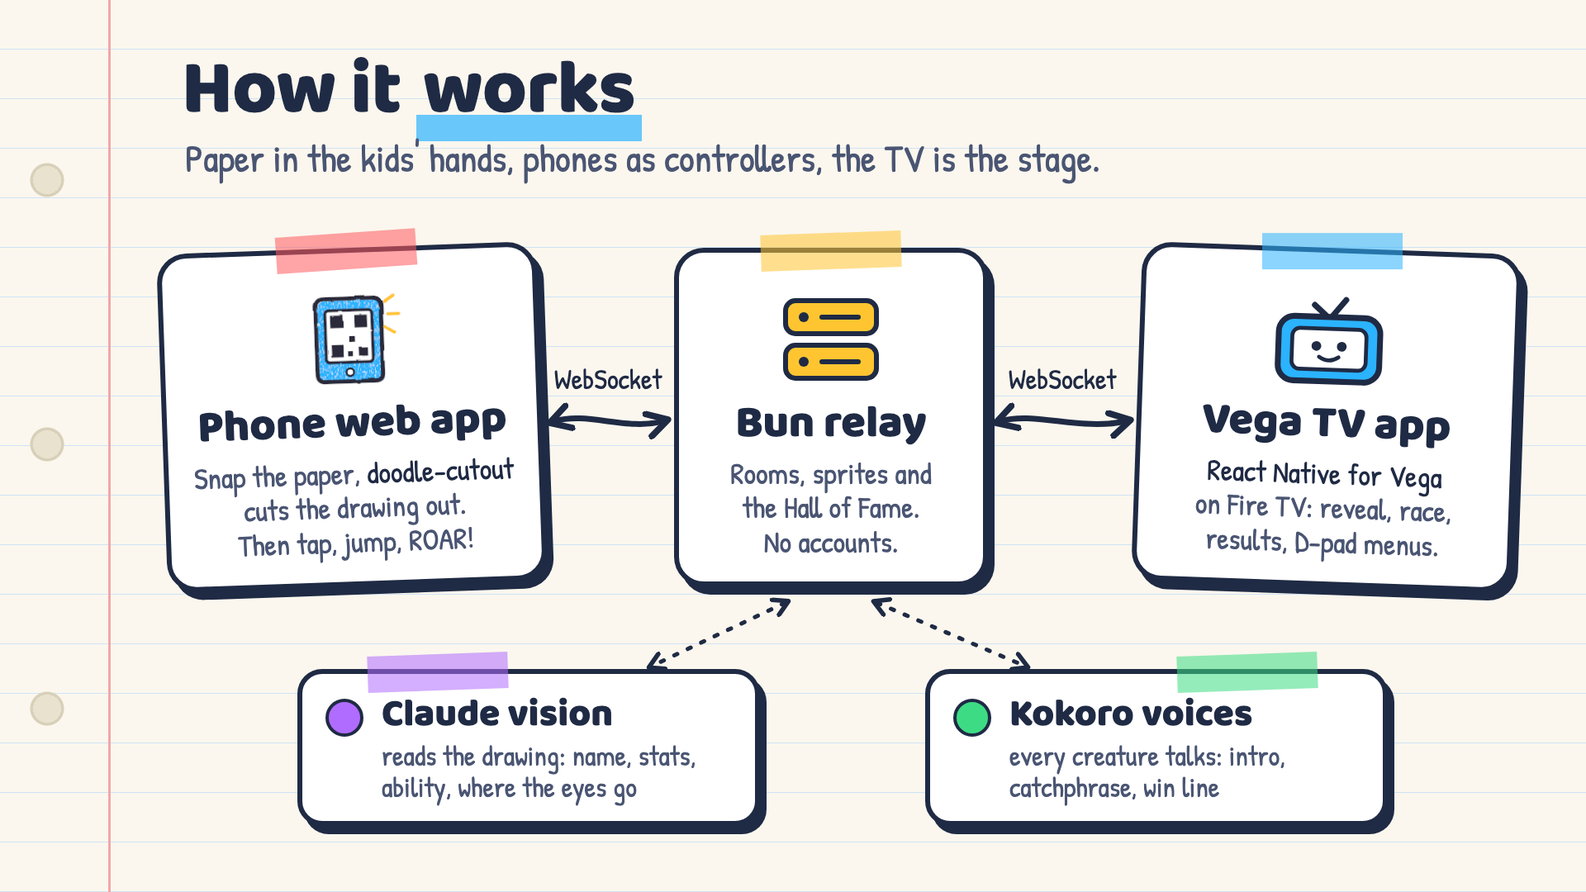
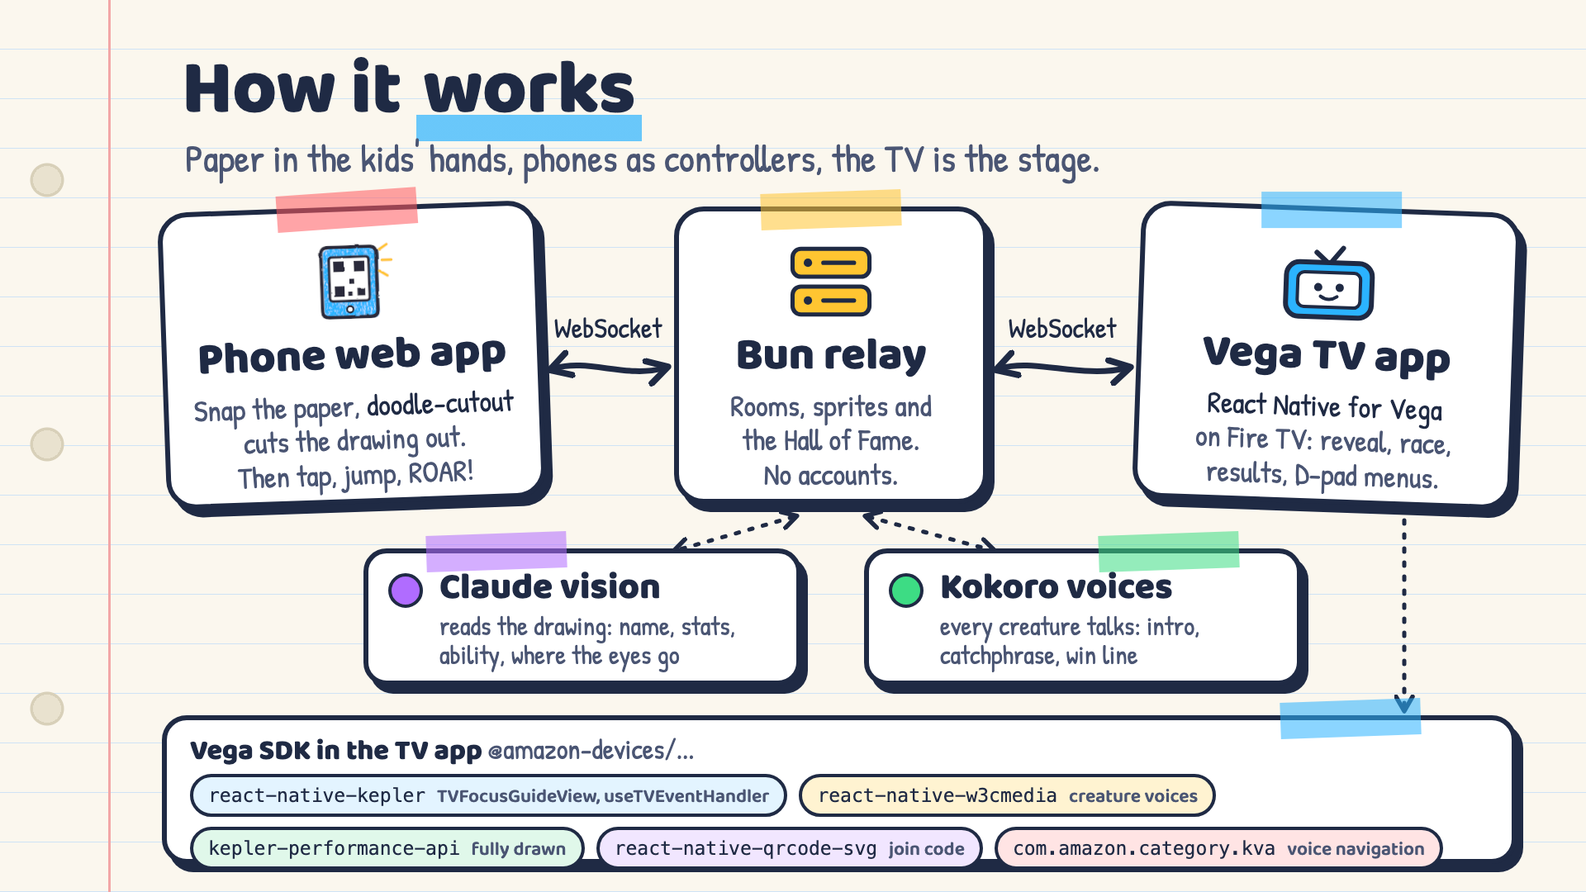
video: cards for the demo video (HTML + rendered PNG, shared notebook style)
Title, lower third, VVD badge, Hall of Fame caption, split-screen frame,
take clock, architecture (with Vega packages), doodle-cutout steps,
Claude persona JSON over its sprite, KPI (TBD where unmeasured),
race-start deadlock, impact, end card, synced-audio note, placeholder
slate. cards/render.sh renders them with headless Chrome.

Changed region(s): [[0.0938, 0.2139, 0.9688, 0.9778], [0.625, 0.3361, 0.7188, 0.5194]]

diff --git a/video/cards/claude.html b/video/cards/claude.html
@@ -1,57 +1,88 @@
 <!doctype html>
 <html lang="en"><head><meta charset="utf-8"><title>Claude persona card</title><link rel="stylesheet" href="style.css">
-<!-- Real persona from GET /api/hall-of-fame (id 0c84fa1d..., source "claude", claude-opus-5-5, 21 Oct 2026). Some fields omitted. -->
 <style>
-  .art { position: absolute; left: 200px; top: 280px; padding: 34px; border-radius: 40px; }
+  .art { position: absolute; left: 200px; top: 270px; padding: 34px; border-radius: 40px; }
   .art .tape { --t: var(--purple); }
-  .sp { position: relative; width: 600px; height: 547px; }
-  .sp img { width: 600px; height: 547px; display: block; }
-  .by { position: absolute; left: 650px; top: 316px; font-size: 40px; transform: rotate(-2deg); }
-  .json { position: absolute; left: 930px; top: 250px; width: 900px; padding: 30px 36px; border-radius: 32px; font-size: 29px; line-height: 43px; white-space: pre; }
+  .sp { position: relative; }
+  .sp img { width: 100%; height: 100%; display: block; }
+  .by { position: absolute; right: 30px; top: 22px; font-size: 40px; transform: rotate(-2deg); }
+  .json { position: absolute; left: 930px; top: 236px; width: 900px; padding: 26px 36px; border-radius: 32px; font-size: 27px; line-height: 37px; white-space: pre; }
   .json .tape { --t: var(--blue); left: 75%; }
   .k { color: #7a3fd0; } .s { color: #c2363b; } .n { color: #1a7fc0; font-weight: 700; } .p { color: #8a93ab; }
   .hl { background: color-mix(in srgb, var(--yellow) 45%, transparent); border-radius: 8px; margin: 0 -8px; padding: 0 8px; }
-  .facts { position: absolute; left: 236px; bottom: 58px; display: flex; gap: 22px; font-size: 40px; }
+  .facts { position: absolute; left: 236px; bottom: 34px; display: flex; gap: 22px; font-size: 40px; }
   svg.link { position: absolute; inset: 0; }
 </style></head>
 <body class="paper">
   <div class="page">
     <h1>Claude <span class="u" style="--u: var(--purple)">reads the drawing</span></h1>
-    <div class="kicker">One look at the paper: a name, stats, an ability, a voice line and where the eyes go.</div>
+    <div class="kicker">Claude vision decides how your drawing plays.</div>
   </div>
-
-  <div class="art sticker tilt-l"><span class="tape"></span>
-    <div class="sp"><img src="img/captain-bleep.png" alt="">
-      <!-- eyes like the TV app (Sprite.tsx): centre x*600, y*547, radius r*600*1.18 -->
-      <span class="eye" style="left: 222px; top: 224px; width: 92px; height: 92px"></span>
-      <span class="eye" style="left: 339px; top: 224px; width: 92px; height: 92px"></span>
-    </div>
-  </div>
-  <div class="by hand">Drawn by Leo</div>
-
-  <div class="json sticker mono"><span class="tape"></span><span class="p">{</span>
-  <span class="k">"name"</span><span class="p">:</span> <span class="s">"Captain Bleep"</span><span class="p">,</span>
-  <span class="k">"title"</span><span class="p">:</span> <span class="s">"the Antenna Buddy"</span><span class="p">,</span>
-  <span class="k">"stats"</span><span class="p">: {</span><span class="k">"speed"</span><span class="p">:</span> <span class="n">3</span><span class="p">,</span> <span class="k">"jump"</span><span class="p">:</span> <span class="n">2</span><span class="p">,</span> <span class="k">"power"</span><span class="p">:</span> <span class="n">4</span><span class="p">},</span>
-  <span class="k">"ability"</span><span class="p">: {</span>
-    <span class="k">"feature"</span><span class="p">:</span> <span class="s">"big round tummy"</span><span class="p">,</span>
-    <span class="k">"label"</span><span class="p">:</span> <span class="s">"ROAR knocks back ink blots!"</span>
-  <span class="p">},</span>
-  <span class="k">"catchphrase"</span><span class="p">:</span> <span class="s">"Beep boop, let's go!"</span><span class="p">,</span>
-  <span class="hl"><span class="k">"eyes"</span><span class="p">: [</span></span>
-    <span class="hl"><span class="p">{</span><span class="k">"x"</span><span class="p">:</span> <span class="n">0.37</span><span class="p">,</span>  <span class="k">"y"</span><span class="p">:</span> <span class="n">0.41</span><span class="p">,</span> <span class="k">"r"</span><span class="p">:</span> <span class="n">0.065</span><span class="p">},</span></span>
-    <span class="hl"><span class="p">{</span><span class="k">"x"</span><span class="p">:</span> <span class="n">0.565</span><span class="p">,</span> <span class="k">"y"</span><span class="p">:</span> <span class="n">0.41</span><span class="p">,</span> <span class="k">"r"</span><span class="p">:</span> <span class="n">0.065</span><span class="p">}</span></span>
-  <span class="p">],  …</span>
-<span class="p">}</span></div>
-
-  <svg class="link" width="1920" height="1080" aria-hidden="true">
-    <path d="M922 726 C 820 740, 700 640, 632 556" fill="none" stroke="#1F2A44" stroke-width="5" stroke-dasharray="4 13" stroke-linecap="round"/>
-    <circle cx="632" cy="556" r="9" fill="#1F2A44"/>
-  </svg>
-
+  <div class="art sticker tilt-l"><span class="tape"></span><div class="sp" id="sp"><img id="img" alt=""></div><div class="by hand" id="by"></div></div>
+  <div class="json sticker mono" id="json"><span class="tape"></span></div>
+  <svg class="link" id="link" width="1920" height="1080" aria-hidden="true"></svg>
   <div class="facts">
-    <span class="pill fill" style="--f: var(--purple); color: #fff">claude-opus-5-5 · vision</span>
-    <span class="pill fill" style="--f: var(--yellow)">median ~4.3 s</span>
-    <span class="pill fill" style="--f: var(--green)">~$0.015 per creature</span>
+    <span class="pill fill" style="--f: var(--purple); color: #fff">claude-opus-5-5 vision</span>
+    <span class="pill fill" style="--f: var(--yellow)">median 4.3 s</span>
+    <span class="pill fill" style="--f: var(--green)">offline fallback, no key needed</span>
   </div>
+  <script>
+    // A real persona from GET http://localhost:8787/api/hall-of-fame (source "claude", 21 Oct 2026). To swap in a
+    // better one (e.g. a flyer with "big wings"): paste its JSON here, copy server/data/sprites/<id>.png to img/,
+    // set SPRITE, then cards/render.sh claude. Only the fields in SHOW are printed; "…" marks the rest.
+    const SPRITE = 'img/captain-bleep.png';
+    const P = {
+      "id": "0c84fa1d-36f4-44a4-a2b2-e3cbc8d4f54d", "name": "Captain Bleep", "title": "the Antenna Buddy",
+      "catchphrase": "Beep boop, let's go!", "stats": {"speed": 3, "jump": 2, "power": 4}, "move": "walk",
+      "ability": {"kind": "walk", "feature": "big round tummy", "label": "ROAR knocks back ink blots!"},
+      "eyes": [{"x": 0.37, "y": 0.41, "r": 0.065}, {"x": 0.565, "y": 0.41, "r": 0.065}],
+      "source": "claude", "width": 601, "height": 548, "artist": "Leo"
+    };
+    const SHOW = ['name', 'title', 'move', 'ability', 'stats', 'eyes'];
+
+    // Sprite fitted to 600x560, googly eyes sized like the TV app (tv/src/components/Sprite.tsx: r * width * 1.18).
+    const s = Math.min(600 / P.width, 560 / P.height), w = Math.round(P.width * s), h = Math.round(P.height * s);
+    const sp = document.getElementById('sp');
+    sp.style.width = w + 'px'; sp.style.height = h + 'px';
+    document.getElementById('img').src = SPRITE;
+    document.getElementById('by').textContent = P.artist ? 'Drawn by ' + P.artist : '';
+    for (const e of P.eyes) {
+      const d = 2 * e.r * w * 1.18, el = document.createElement('span');
+      el.className = 'eye';
+      Object.assign(el.style, {left: e.x * w + 'px', top: e.y * h + 'px', width: d + 'px', height: d + 'px', borderWidth: Math.max(3, d * 0.06) + 'px'});
+      sp.appendChild(el);
+    }
+
+    // Pretty JSON with colours; small objects on one line, the eyes highlighted.
+    const esc = t => t.replace(/&/g, '&amp;').replace(/</g, '&lt;');
+    const tok = v => typeof v === 'string' ? `<span class="s">${esc(JSON.stringify(v))}</span>` : `<span class="n">${v}</span>`;
+    const p = t => `<span class="p">${t}</span>`;
+    const inline = o => p('{') + Object.entries(o).map(([k, v]) => `<span class="k">"${k}"</span>${p(':')} ${tok(v)}`).join(p(', ')) + p('}');
+    const lines = [p('{')];
+    SHOW.forEach(k => {
+      const v = P[k], key = `  <span class="k">"${k}"</span>${p(':')} `;
+      if (Array.isArray(v)) {
+        lines.push(`<span class="hl">${key}${p('[')}</span>`);
+        v.forEach((o, i) => lines.push(`    <span class="hl">${inline(o)}${i < v.length - 1 ? p(',') : ''}</span>`));
+        lines.push('  ' + p('],'));
+      } else if (v && typeof v === 'object' && JSON.stringify(v).length > 44) {
+        lines.push(key + p('{'));
+        const es = Object.entries(v);
+        es.forEach(([kk, vv], i) => lines.push(`    <span class="k">"${kk}"</span>${p(':')} ${tok(vv)}${i < es.length - 1 ? p(',') : ''}`));
+        lines.push('  ' + p('},'));
+      } else lines.push(key + (typeof v === 'object' ? inline(v) : tok(v)) + p(','));
+    });
+    lines.push('  ' + p('…'), p('}'));
+    document.getElementById('json').insertAdjacentHTML('beforeend', lines.join('\n'));
+
+    // Dotted link from the highlighted "eyes" line to the last googly eye.
+    requestAnimationFrame(() => {
+      const e = [...document.querySelectorAll('.eye')].pop();
+      if (!e) return;
+      const a = [...document.querySelectorAll('.hl')].pop().getBoundingClientRect(), b = e.getBoundingClientRect();
+      const x1 = a.left - 12, y1 = a.top + a.height / 2, x2 = b.right + 4, y2 = b.top + b.height / 2;
+      document.getElementById('link').innerHTML = `<path d="M${x1} ${y1} C ${x1 - 120} ${y1}, ${x2 + 90} ${y2 + 60}, ${x2} ${y2}" fill="none"
+        stroke="#1F2A44" stroke-width="5" stroke-dasharray="4 13" stroke-linecap="round"/><circle cx="${x2}" cy="${y2}" r="9" fill="#1F2A44"/>`;
+    });
+  </script>
 </body></html>

diff --git a/video/cards/architecture.html b/video/cards/architecture.html
@@ -1,16 +1,24 @@
 <!doctype html>
 <html lang="en"><head><meta charset="utf-8"><title>Architecture card</title><link rel="stylesheet" href="style.css">
+<!-- Package names from tv/package.json and tv/manifest.toml (categories). -->
 <style>
-  .box { position: absolute; top: 300px; height: 410px; padding: 40px 22px 0; text-align: center; }
-  .box .icon { height: 130px; display: block; margin: 0 auto 10px; }
+  .box { position: absolute; top: 250px; height: 360px; padding: 30px 22px 0; text-align: center; }
+  .box .icon { height: 110px; display: block; margin: 0 auto 8px; }
   .box h2 { margin: 0; font-size: 54px; line-height: 1; font-weight: 800; white-space: nowrap; }
   .box .sub { margin-top: 12px; font-size: 36px; line-height: 1.15; color: var(--ink-soft); }
   .box .sub b { color: var(--ink); font-weight: 400; }
-  .sat { position: absolute; top: 810px; height: 190px; padding: 26px 30px 0 28px; display: flex; gap: 22px; align-items: flex-start; border-radius: 30px; }
-  .sat h3 { margin: 0; font-size: 46px; line-height: 1; font-weight: 800; }
-  .sat .sub { margin-top: 8px; font-size: 34px; line-height: 1.12; color: var(--ink-soft); }
-  .wire { position: absolute; font-size: 36px; text-align: center; color: var(--ink); }
+  .sat { position: absolute; top: 664px; height: 166px; padding: 20px 26px 0 24px; display: flex; gap: 20px; align-items: flex-start; border-radius: 28px; }
+  .sat h3 { margin: 0; font-size: 44px; line-height: 1; font-weight: 800; }
+  .sat .sub { margin-top: 6px; font-size: 32px; line-height: 1.1; color: var(--ink-soft); }
+  .wire { position: absolute; font-size: 34px; text-align: center; color: var(--ink); }
   svg.lines { position: absolute; inset: 0; }
+  .pkgs { position: absolute; left: 196px; top: 866px; width: 1640px; height: 180px; padding: 18px 28px 0; border-radius: 30px; }
+  .pkgs .tape { --t: var(--blue); left: 88%; }
+  .pkgs h3 { margin: 0 0 10px; font-size: 34px; line-height: 1; font-weight: 800; }
+  .pkgs h3 span { font-family: 'Patrick Hand'; font-weight: 400; color: var(--ink-soft); }
+  .chips { display: flex; flex-wrap: wrap; gap: 12px 14px; }
+  .chip { border: 4px solid var(--ink); border-radius: 99px; padding: 2px 18px 0; font-size: 23px; line-height: 40px; background: var(--c, #fff); white-space: nowrap; }
+  .chip i { font-style: normal; font-family: 'Baloo 2'; font-weight: 600; color: var(--ink-soft); }
 </style></head>
 <body class="paper">
   <div class="page">
@@ -22,16 +30,17 @@
     <defs><marker id="h" viewBox="0 0 10 10" refX="6" refY="5" markerWidth="5" markerHeight="5" orient="auto-start-reverse">
       <path d="M1 1 L8 5 L1 9" fill="none" stroke="#1F2A44" stroke-width="2.2" stroke-linecap="round" stroke-linejoin="round"/></marker></defs>
     <g fill="none" stroke="#1F2A44" stroke-width="7" stroke-linecap="round">
-      <path d="M672 510 C 710 498, 760 522, 802 510" marker-start="url(#h)" marker-end="url(#h)"/>
-      <path d="M1212 510 C 1250 498, 1310 522, 1362 510" marker-start="url(#h)" marker-end="url(#h)"/>
+      <path d="M672 446 C 710 434, 760 458, 802 446" marker-start="url(#h)" marker-end="url(#h)"/>
+      <path d="M1212 446 C 1250 434, 1310 458, 1362 446" marker-start="url(#h)" marker-end="url(#h)"/>
     </g>
-    <g fill="none" stroke="#1F2A44" stroke-width="5" stroke-dasharray="4 14" stroke-linecap="round">
-      <path d="M950 730 L 790 806" marker-start="url(#h)" marker-end="url(#h)"/>
-      <path d="M1062 730 L 1240 806" marker-start="url(#h)" marker-end="url(#h)"/>
+    <g fill="none" stroke="#1F2A44" stroke-width="5" stroke-dasharray="4 13" stroke-linecap="round">
+      <path d="M960 626 L 820 666" marker-start="url(#h)" marker-end="url(#h)"/>
+      <path d="M1052 626 L 1200 666" marker-start="url(#h)" marker-end="url(#h)"/>
+      <path d="M1700 630 L 1700 856" marker-end="url(#h)"/>
     </g>
   </svg>
-  <div class="wire hand" style="left: 656px; top: 436px; width: 160px; font-size: 34px">WebSocket</div>
-  <div class="wire hand" style="left: 1196px; top: 436px; width: 180px; font-size: 34px">WebSocket</div>
+  <div class="wire hand" style="left: 656px; top: 374px; width: 160px">WebSocket</div>
+  <div class="wire hand" style="left: 1196px; top: 374px; width: 180px">WebSocket</div>
 
   <div class="box sticker tilt-l" style="left: 196px; width: 460px"><span class="tape" style="--t: var(--red)"></span>
     <img class="icon" src="img/icon_phone.svg" alt="">
@@ -39,7 +48,7 @@
     <div class="sub hand">Snap the paper, <b>doodle-cutout</b><br>cuts the drawing out.<br>Then tap, jump, ROAR!</div>
   </div>
   <div class="box sticker" style="left: 816px; width: 380px"><span class="tape" style="--t: var(--yellow)"></span>
-    <svg class="icon" width="150" height="130" viewBox="0 0 150 130" aria-hidden="true">
+    <svg class="icon" width="150" height="110" viewBox="0 0 150 130" aria-hidden="true">
       <rect x="20" y="18" width="110" height="40" rx="12" fill="#ffc531" stroke="#1F2A44" stroke-width="6"/>
       <rect x="20" y="72" width="110" height="40" rx="12" fill="#ffc531" stroke="#1F2A44" stroke-width="6"/>
       <circle cx="42" cy="38" r="6" fill="#1F2A44"/><circle cx="42" cy="92" r="6" fill="#1F2A44"/>
@@ -48,7 +57,7 @@
     <div class="sub hand">Rooms, sprites and<br>the Hall of Fame.<br>No accounts.</div>
   </div>
   <div class="box sticker tilt-r" style="left: 1376px; width: 460px"><span class="tape" style="--t: var(--blue)"></span>
-    <svg class="icon" width="150" height="130" viewBox="0 0 120 110" aria-hidden="true">
+    <svg class="icon" width="130" height="110" viewBox="0 0 120 110" aria-hidden="true">
       <path d="M44 20 L60 34 L76 14" fill="none" stroke="#1F2A44" stroke-width="6" stroke-linecap="round" stroke-linejoin="round"/>
       <rect x="8" y="32" width="104" height="66" rx="16" fill="#2bb3ff" stroke="#1F2A44" stroke-width="6"/>
       <rect x="22" y="44" width="76" height="42" rx="8" fill="#fff" stroke="#1F2A44" stroke-width="4"/>
@@ -58,12 +67,23 @@
     <div class="sub hand"><b>React Native for Vega</b><br>on Fire TV: reveal, race,<br>results, D-pad menus.</div>
   </div>
 
-  <div class="sat sticker" style="left: 360px; width: 560px"><span class="tape" style="--t: var(--purple); left: 30%"></span>
-    <div class="dot" style="--d: var(--purple); width: 46px; height: 46px; margin-top: 4px"></div>
+  <div class="sat sticker" style="left: 440px; width: 530px"><span class="tape" style="--t: var(--purple); left: 30%"></span>
+    <div class="dot" style="--d: var(--purple); width: 42px; height: 42px; margin-top: 4px"></div>
     <div><h3>Claude vision</h3><div class="sub hand">reads the drawing: name, stats,<br>ability, where the eyes go</div></div>
   </div>
-  <div class="sat sticker" style="left: 1120px; width: 560px"><span class="tape" style="--t: var(--green); left: 70%"></span>
-    <div class="dot" style="--d: var(--green); width: 46px; height: 46px; margin-top: 4px"></div>
+  <div class="sat sticker" style="left: 1046px; width: 530px"><span class="tape" style="--t: var(--green); left: 70%"></span>
+    <div class="dot" style="--d: var(--green); width: 42px; height: 42px; margin-top: 4px"></div>
     <div><h3>Kokoro voices</h3><div class="sub hand">every creature talks: intro,<br>catchphrase, win line</div></div>
+  </div>
+
+  <div class="pkgs sticker"><span class="tape"></span>
+    <h3>Vega SDK in the TV app <span>@amazon-devices/...</span></h3>
+    <div class="chips mono">
+      <span class="chip" style="--c: #E3F4FF">react-native-kepler <i>TVFocusGuideView, useTVEventHandler</i></span>
+      <span class="chip" style="--c: #FFF3D1">react-native-w3cmedia <i>creature voices</i></span>
+      <span class="chip" style="--c: #E0F8EA">kepler-performance-api <i>fully drawn</i></span>
+      <span class="chip" style="--c: #F1E6FF">react-native-qrcode-svg <i>join code</i></span>
+      <span class="chip" style="--c: #FFE4E4">com.amazon.category.kva <i>voice navigation</i></span>
+    </div>
   </div>
 </body></html>

diff --git a/video/cards/deadlock.html b/video/cards/deadlock.html
@@ -1,0 +1,58 @@
+<!doctype html>
+<html lang="en"><head><meta charset="utf-8"><title>Deadlock card</title><link rel="stylesheet" href="style.css">
+<!-- Source: notes/tv.md F4 (root cause from the ACR core dump's thread stacks, tv/scripts/acr-stacks.py) and the soak record. -->
+<style>
+  .threads { position: absolute; left: 210px; top: 262px; width: 1010px; display: flex; flex-direction: column; gap: 28px; }
+  .th { padding: 16px 28px 16px; border-radius: 28px; }
+  .th h3 { margin: 0 0 6px; font-size: 40px; line-height: 1.05; font-weight: 800; }
+  .th h3 span { font-family: 'Patrick Hand'; font-weight: 400; color: var(--ink-soft); }
+  .stk { font-size: 24px; line-height: 34px; white-space: pre; color: var(--ink); }
+  .stk em { font-style: normal; color: #8a93ab; }
+  .stk b { background: color-mix(in srgb, var(--c) 40%, transparent); border-radius: 6px; padding: 0 6px; font-weight: 700; }
+  .abba { position: absolute; left: 1060px; top: 438px; transform: rotate(4deg); font-size: 34px; padding: 4px 22px 0; background: var(--red); color: #fff; }
+  .acr { position: absolute; left: 1290px; top: 268px; width: 540px; padding: 18px 26px; border-radius: 28px; background: var(--ink); color: #e9eefb;
+    font-size: 22px; line-height: 32px; white-space: pre; box-shadow: 8px 10px 0 color-mix(in srgb, var(--ink) 35%, transparent); }
+  .acr .h { font-family: 'Baloo 2'; font-weight: 800; font-size: 34px; color: var(--yellow); }
+  .fix { position: absolute; left: 1290px; top: 560px; width: 540px; padding: 18px 28px 16px; border-radius: 28px; }
+  .fix .tape { --t: var(--green); }
+  .fix h3 { margin: 0 0 6px; font-size: 40px; line-height: 1; font-weight: 800; }
+  .fix li { font-size: 34px; line-height: 1.2; }
+  .fix ul { margin: 0; padding-left: 30px; }
+  .stat { position: absolute; left: 210px; top: 950px; width: 1620px; height: 100px; padding: 0 34px; display: flex; align-items: center; gap: 24px; font-size: 52px; font-weight: 800; line-height: 1; border-radius: 30px; white-space: nowrap; }
+  .stat b { color: var(--green); text-shadow: 3px 4px 0 var(--ink); font-size: 70px; }
+  .stat span { font-family: 'Patrick Hand'; font-size: 38px; font-weight: 400; color: var(--ink-soft); margin-left: auto; }
+</style></head>
+<body class="paper">
+  <div class="page">
+    <h1>The race-start <span class="u" style="--u: var(--red)">freeze</span></h1>
+    <div class="kicker">Read every thread's stack from the crash dump: a deadlock inside Vega's JS-thread watchdog.</div>
+  </div>
+
+  <div class="threads mono">
+    <div class="th sticker" style="--c: var(--red)"><span class="tape" style="--t: var(--red); left: 82%"></span>
+      <h3>JS thread <span>blocked in a blocking send()</span></h3>
+      <div class="stk"><b>send()</b>                  <em>socket buffer full, waits</em>
+aceAsync_deferredRemove  <b>holds the deferred-work mutex</b>
+ThreadMonitor::stopTimer <em>&lt;- sendHeartbeat &lt;- JS task</em></div></div>
+    <div class="th sticker" style="--c: var(--blue)"><span class="tape" style="--t: var(--blue); left: 58%"></span>
+      <h3>Watchdog loop thread <span>the only one that drains it</span></h3>
+      <div class="stk"><b>pthread_mutex_lock</b>      <em>waits for that same mutex</em>
+aceAsync_deferredPoll    <em>&lt;- aceAsyncLoop_run</em></div></div>
+    <div class="th sticker" style="--c: var(--yellow)"><span class="tape" style="--t: var(--yellow); left: 82%"></span>
+      <h3>Main thread <span>Back pressed, app gets killed</span></h3>
+      <div class="stk"><b>pthread_mutex_lock</b>      <em>&lt;- appMovedToBackground</em></div></div>
+  </div>
+  <div class="abba pill">ABBA deadlock</div>
+
+  <div class="acr mono"><span class="h">ACR</span>
+CrashReason: AppNotResponding
+LCM_ANR_REASON: Lifecycle Callback
+"No JavaScript code is
+ currently being executed"</div>
+
+  <div class="fix sticker"><span class="tape"></span>
+    <h3>The fix: starve it</h3>
+    <ul class="hand"><li>One JS task per frame</li><li>Animated values native from birth</li><li>A silent race start</li></ul>
+  </div>
+  <div class="stat sticker"><div><b>42</b> race starts, <b>0</b> freezes since the fix</div><span>soak test on the Vega Virtual Device</span></div>
+</body></html>

diff --git a/video/cards/note-synced.html b/video/cards/note-synced.html
@@ -1,0 +1,11 @@
+<!doctype html>
+<html lang="en"><head><meta charset="utf-8"><title>Synced audio note (transparent)</title><link rel="stylesheet" href="style.css">
+<!-- Shown by build.mjs while a cue with "note": true plays: audio laid in during the edit, not recorded with the picture. -->
+<style>
+  .pill { position: absolute; left: 24px; bottom: 16px; font-size: 28px; padding: 2px 20px 0 14px; border-width: 4px; gap: 10px; background: #fffdf6; }
+</style></head>
+<body>
+  <div class="pill"><svg width="30" height="34" viewBox="0 0 30 34" aria-hidden="true"><path d="M11 26 V5 L27 2 V22" fill="none" stroke="#1F2A44" stroke-width="4" stroke-linejoin="round"/>
+    <ellipse cx="7" cy="27" rx="6" ry="5" fill="#b06cff" stroke="#1F2A44" stroke-width="3"/><ellipse cx="23" cy="23" rx="6" ry="5" fill="#b06cff" stroke="#1F2A44" stroke-width="3"/></svg>
+    The app's own voice clip, synced in the edit (VVD filmed muted)</div>
+</body></html>

diff --git a/video/cards/impact.html b/video/cards/impact.html
@@ -24,7 +24,7 @@
     <div class="tile sticker"><span class="tape" style="--t: var(--blue)"></span><img src="img/crown.svg" alt="">
       <h2>The youngest can win</h2><p class="hand">Age boosts, abilities from the drawing.<br>Playtest: <b>youngest won TBD of TBD races</b></p></div>
     <div class="tile sticker"><span class="tape" style="--t: var(--purple)"></span><img src="img/icon_trophy.svg" alt="">
-      <h2>Fire TV Appstore</h2><p class="hand">Next: Kids &amp; Family, from StarFun Games.<br>The Hall of Fame keeps every racer.</p></div>
+      <h2>Fire TV Appstore</h2><p class="hand">Next: Kids &amp; Family, from StarFun Games.<br>Price model: <b>TBD</b></p></div>
     <div class="tile sticker"><span class="tape" style="--t: var(--green)"></span><div class="ico big">1.5¢</div>
       <h2>~1.5 cents a creature</h2><p class="hand">One Claude call per drawing (~$0.015).<br>Voices are made on our own server.</p></div>
   </div>

diff --git a/video/cards/kpi.html b/video/cards/kpi.html
@@ -19,8 +19,9 @@
 <body class="paper">
   <div class="page">
     <h1>TV-grade <span class="u" style="--u: var(--green)">on Vega</span></h1>
-    <div class="kicker">Measured on the Vega Virtual Device: Vega KPI Visualizer and the in-app perf overlay.</div>
+    <div class="kicker">Vega KPI Visualizer (cool start) and the in-app perf overlay (race), against Vega's targets.</div>
   </div>
+  <div class="pill fill" style="position: absolute; right: 90px; top: 80px; font-size: 38px; --f: var(--blue)"><span class="dot" style="--d: #fff"></span>measured on the Vega Virtual Device</div>
   <div class="grid" id="grid"></div>
   <div class="wide sticker" id="wide"></div>
   <script>
